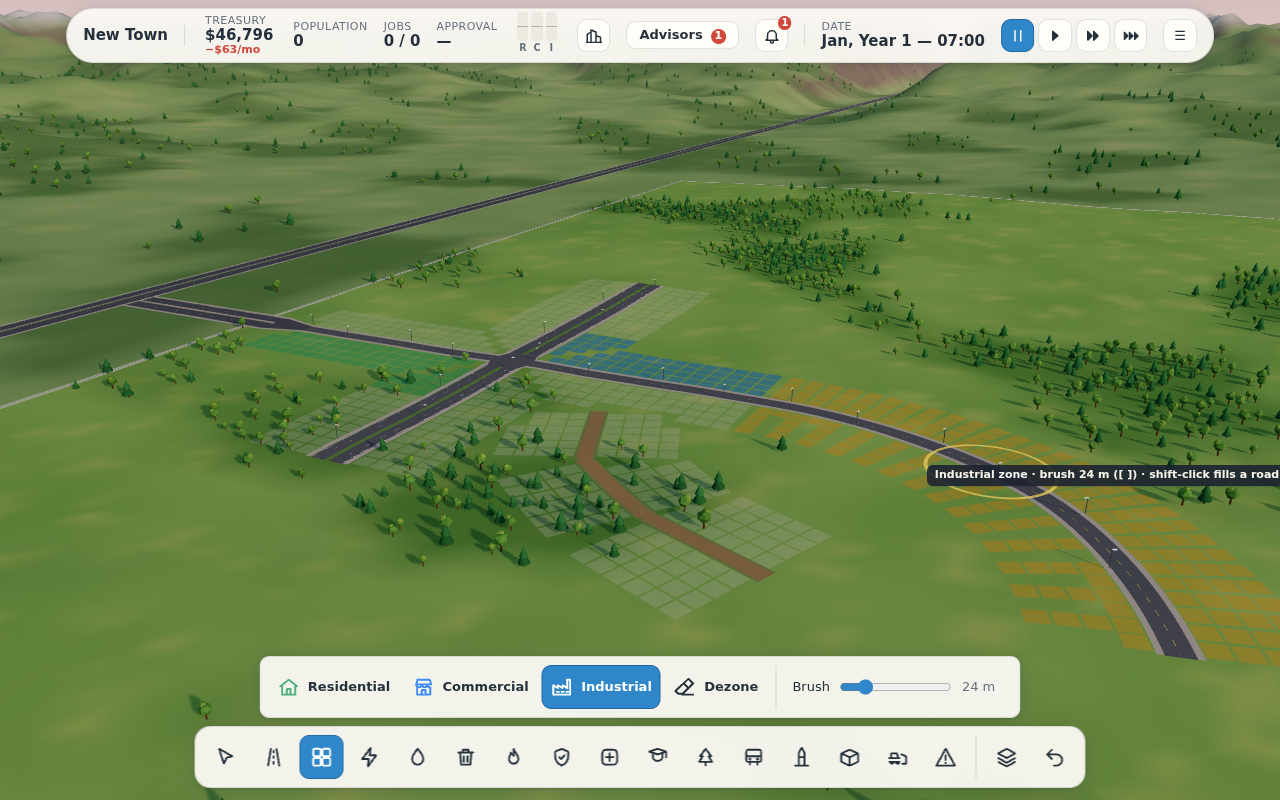
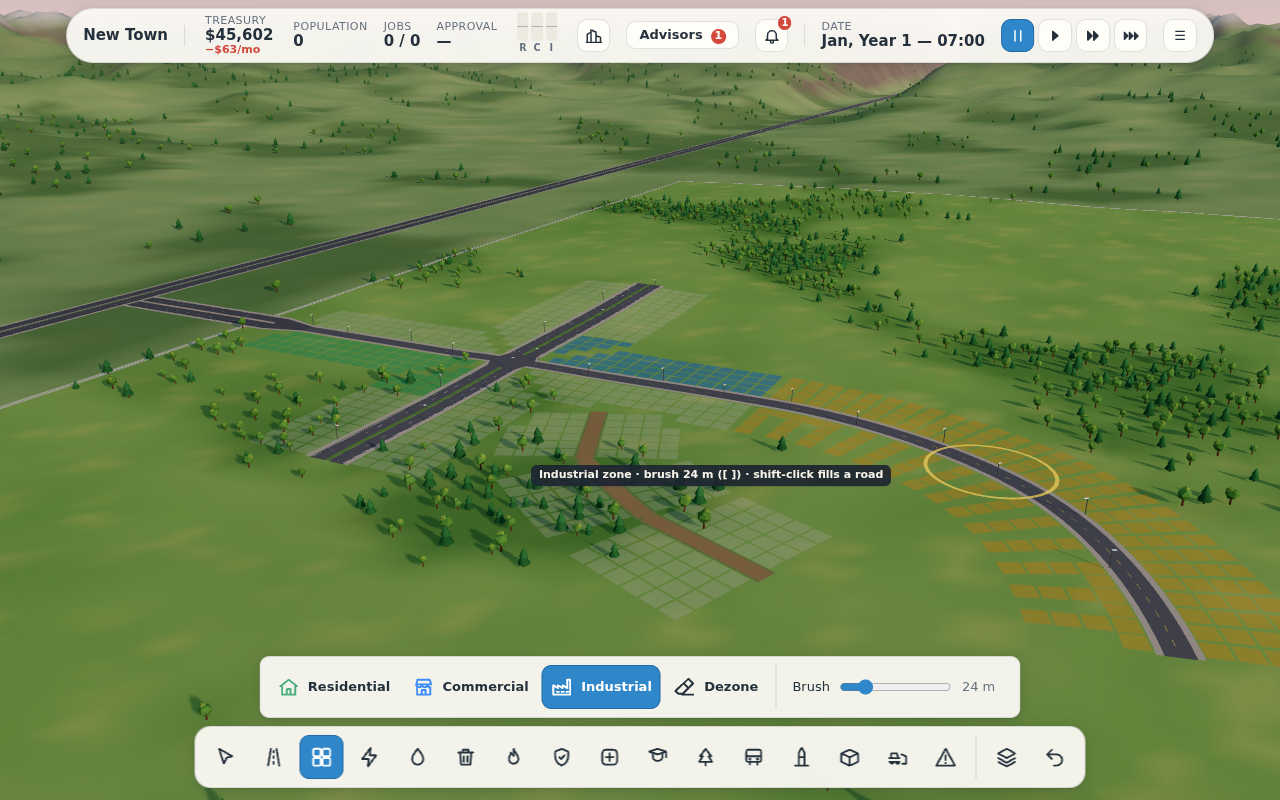
M13: docs (DESIGN §3.15, decisions, README, SPEC_REVIEW phase 2)
Claude-Session: https://claude.ai/code/session_01XW8DbmKrRef35JRd9CiaPb

diff --git a/src/sim/world/grading.ts b/src/sim/world/grading.ts
@@ -6,7 +6,7 @@ import type { Curve } from '../geom';
  * Road grading (M13). A road no longer drapes over every bump: it gets a smoothed vertical profile
  * within its type's grade limit, pinned only where it joins roads that already exist, and the
  * ground is cut or filled to meet it. Pure and deterministic, so previews, the sim and tests agree.
- * DESIGN.md §2.4.
+ * DESIGN.md §3.15.
  */
 export interface GradeProfile {
   /** Sample spacing along the road, metres (the last sample sits at the road's end). */

diff --git a/src/sim/world/earthworks.ts b/src/sim/world/earthworks.ts
@@ -13,7 +13,7 @@ import { profileAt, type GradeProfile } from './grading';
  * profile, and side slopes run from its edge back to the natural ground: an embankment where the
  * road is above it, a cutting where it's below. Other roads, buildings and water are left alone.
  * Edits are to the terrain's height samples and are saved as deltas on the generated terrain.
- * DESIGN.md §2.4.
+ * DESIGN.md §3.15.
  */
 export interface EarthPiece {
   curve: Curve;

diff --git a/src/data/roads.ts b/src/data/roads.ts
@@ -150,7 +150,7 @@ export const SNAP = {
 
 /**
  * Road grading (M13): each road gets a smoothed vertical profile within its type's grade limit, and
- * the ground under it and a little to each side is cut or filled to match. DESIGN.md §2.4.
+ * the ground under it and a little to each side is cut or filled to match. DESIGN.md §3.15.
  */
 export const GRADING = {
   /** Profile sample spacing, metres (the bridge deck spacing too). */

diff --git a/docs/DECISIONS.md b/docs/DECISIONS.md
@@ -189,3 +189,22 @@ One line each: what was decided and why. Newest at the bottom of each section.
 - The inspector shows trucks out of total, collected yesterday against what the city makes a day, what's on the streets, and the last day's rounds (hours, stops, load), with a one-line verdict: keeping up, buy a truck, or (when rounds run over 8 hours) build a site closer. The garbage advice likewise says whether nobody collects yet, every truck is busy, or the streets are out of reach.
 - The balance tool's careful player now puts landfills on the road farthest from where people live, as players do, and buys a truck for a landfill whose trucks are all out before building another. Over 20 years the greedy and neglectful runs are unchanged; the careful city ends at 22,200 residents and 69 % approval instead of 16,000 and 54 %, having no longer drowned in garbage once its landfills filled (79 % of buildings with garbage at year 20 before, 17 % after).
 - SAVE_VERSION 11: vehicles note the tick they set out and their stops; older saves migrate.
+
+## Phase 2 (SPEC-2.md)
+
+### M13 Gentler roads
+- Measured first (`scripts/dev/grades.ts`: 1,800 random straight streets, 60–300 m, on dry land, three seeds of each preset): the old rule (12 % over any 16 m of raw ground) refused 20.7 % of them as too steep, including 90 % of those whose steepest 50 m of ground was only 8–15 %. Now none are refused below 35 %, and 22 % of the 54 placements on 35 %+ ground are (0.7 % overall). A unit test repeats the sample (60 streets per preset) and fails if a too-steep refusal lands on ground under 35 %.
+- Grade limits by type, near real practice for local and arterial roads: dirt 20 %, street 16 %, avenue 12 %, boulevard 8 % (the regional highway, not buildable, 6 %). They're measured on the graded profile, sampled every 4 m, not on the raw ground.
+- The profile is fitted to keep the worst cut or fill as small as possible (fill weighted to 8/14 of cut, the two limits' ratio) and then to hug the smoothed ground wherever it can. An earlier draft clamped the smoothed ground with forward and backward sweeps; it piled all the error on the far end of a free road, so streets running downhill ended on tall embankments and were refused.
+- A cutting deeper than 14 m is the only "too steep" on land (no tunnels). Fill taller than 8 m goes on a viaduct over dry ground, drawn and priced like a bridge, but not at a road's end, not for dirt roads, and no longer than a bridge may be. Roads can't join a viaduct mid-span yet (M19 brings grade separation); the planner says to meet it where it's back on the ground.
+- The flat formation reaches 8 m beyond the shoulder (a bench). The terrain is 8 m height samples and the road is draped on them, so a narrower formation left the road tilted across wherever side slopes started inside the cells under it. The bench also gives the first row of lots a level site at road level.
+- Side slopes are 1:1 in cuttings and 1:3 on embankments. The first draft used 1:2 for both, and a cutting on a hillside steeper than 50 % never met the ground again. 1:3 fills keep lots across an embankment buildable (the cell slope check measures across the diagonal); 1:1 cuts are narrow, like real ones.
+- Earthworks cost $0.40 per cubic metre moved. On the sample, that adds a median 16 % to a street on gentle ground (cross-slopes are benched) and 85 % where the ground is 15 % or steeper: a trade-off, not a wall. Bulldozing refunds a quarter of the road but not its earthworks; undo refunds everything.
+- Civic buildings on uneven ground (more than 1 m across the footprint) get a level pad at the height where they meet their road, at the same price per cubic metre; a site is too steep beyond 12 m (was 7 m, for plinths alone). Found by the garbage test: a landfill beside a new cutting was refused as too steep.
+- Ground under buildings that stay is never moved; beside them the earthworks stop short, like a retaining wall. Everything else re-seats on the moved ground by the existing rule (highest ground under the corners and centre; plinths hide the rest), and zone cells on new cut faces lose their zoning like any too-steep cell.
+- Trees go where the ground moved more than half a metre (the construction site), not just under the road.
+- Terrain edits are saved as a full 257² Float32 delta rather than a sparse list: simplest to keep exact, gzip shrinks the zeros, and M24's terraforming reuses it. Heights are always computed as seed + delta, live and on load, so save/load and undo reproduce the ground bit for bit (an early version stored the target heights and drifted by a float ulp). SAVE_VERSION 12; older saves migrate to an all-zero delta and keep their ground.
+- Upgrading a road regrades it for the new type between its two junctions (widening the formation too), or refuses with the reason; bridges and viaducts keep their decks and just check their climb.
+- The road preview draws the ghost at the height the road will be built, seen through hills, coloured by how steeply it climbs against the limit (blue, amber near it, red where too steep, violet on a viaduct), with posts down or up to today's ground where it's filled or cut. The hint adds "climbs 12 % (max 16 %) · earthworks $X" and, when refused, how steep the ground is, the limit, how deep the cutting would be and what would fix it. Roads have no inspector, so the preview is where the "why" lives; road tooltips give each type's limit and a one-time tip explains earthworks the first time a preview needs a lot of them.
+- The cursor hint used to run off the right edge of the screen (the too-steep explanations are long); it now wraps and moves to the other side of the cursor near an edge.
+- Tests adjusted for earthworks, not weakened: road and upgrade prices are checked as the road plus the reported earthworks; the bankruptcy test sizes its avenues by preview; the landmark test tops up the treasury before placing two landmarks (roads now cost more); the far-landfill garbage test takes the cheapest road out of town (hilly routes that used to be refused are now buildable, at a price) and puts the landfill 1,100 m out, where the starting trucks clearly fall behind.

diff --git a/DESIGN.md b/DESIGN.md
@@ -139,6 +139,7 @@ SimState {
   rng: {growth, events, traffic, world, disasters}          // sfc32 states
   terrain: { heights: Float32Array(257²) }                  // regenerated from seed + options.terrain
                                                             // (generator version), not saved
+  terrainDelta: Float32Array(257²)                          // earthworks (M13): heights = seed + delta
   grids:   { trees, groundwater, ore, oil,                  // Uint8/Float32, 128²
              airPollution, groundPollution, landValue, crime, garbageField, ... }
   roads:   { nodes: Map<id, RoadNode>, segments: Map<id, RoadSegment>, nextId }
@@ -160,7 +161,8 @@ Key entities:
 
 ```ts
 RoadNode    { id, x, z, y, segs: number[] }                 // segs is derived, rebuilt on load
-RoadSegment { id, a, b, cx, cz, type: RoadTypeId, length, blocks: [left, right], name }
+RoadSegment { id, a, b, cx, cz, type: RoadTypeId, length, blocks: [left, right], name,
+              deck?: number[] }                             // viaduct over dry ground: heights / 4 m (M13)
 ZoneBlock   { id, seg, side: 1 | -1, s0, cols, rows,        // cell (c, r) centre = P(s0 + (c+½)·8) +
               zone: Uint8Array, valid: Uint8Array,          //   N·(halfWidth + (r+½)·8), angle = tangent
               bld: Int32Array }                             // building id or 0
@@ -559,6 +561,47 @@ disasters menu can set any one off at a chosen point whatever that setting.
             │   crime ◄── unemployment, low happiness ──────────────────┘            │
             └── decline / abandonment ◄── unhappiness, unmet needs ◄─────────────────┘
 ```
+
+### 3.15 Road grading and earthworks (M13)
+
+Roads no longer drape over the raw ground. `world/grading.ts` gives each dry-land piece a vertical
+profile sampled every 4 m:
+
+1. The ground along the centre line is averaged over 40 m (the window narrows symmetrically at the
+   ends), so short bumps are shaved off rather than followed.
+2. Ends that join an existing road (or an earlier piece of the same road) are pinned to its height;
+   a new dead end is free. If two pinned ends are further apart in height than the type can climb
+   over the length, the piece fails ("make it longer, or wind it up the slope").
+3. The profile is the one within the type's grade limit (`RoadType.maxGrade`: dirt 20 %, street
+   16 %, avenue 12 %, boulevard 8 %) that strays least from the smoothed ground: a bisection on the
+   worst cut, with fill held to 8/14 of it, finds the smallest tolerance for which a forward pass of
+   reachable heights (grade-limited, inside the pins' band) stays non-empty; a backward pass then
+   picks the height closest to the ground at each sample. If that needs a cutting deeper than
+   14 m, a second fit lets fill run tall instead (a viaduct beats an impossible cutting).
+4. Samples more than 8 m above the ground are carried on a viaduct (stored on the segment as
+   `deck`, drawn and costed like a bridge; not at a road's end, not for dirt roads, at most
+   `BRIDGE.maxSpan`). A cutting deeper than 14 m fails with the ground's steepness, the limit and
+   the fix. Pieces over water keep the M6 bridge rules.
+
+`world/earthworks.ts` turns profiles into terrain edits. Each height sample within reach of the
+road is claimed by the nearest piece: out to the road's half-width plus a 1.5 m shoulder plus an
+8 m bench (the first row of lots, and enough that the road, draped on 8 m samples, comes out flat
+across) it is set to the profile; beyond, side slopes run back to the natural ground, 1:1 in
+cuttings and 1:3 on embankments (gentle enough that lots on them stay buildable). Water, other
+roads' corridors (road + shoulder), ground beyond an end that joins another road, samples under a
+viaduct, and ground under buildings that stay are left alone. Earth moved costs $0.40 per cubic
+metre, part of the road's price (not refunded by bulldozing). Civic buildings whose footprint
+varies by more than 1 m get a level pad at the height where they meet their road (4 m margin,
+same side slopes, same price); beyond 12 m the site is too steep.
+
+Edits are written as `terrainDelta` (height = seed terrain + delta, computed the same way live and
+on load, so saves and undo are exact) and sent to the client as `FrameDiff.terrain`. After any edit
+the sim re-seats buildings and civic buildings (highest ground under their corners and centre),
+clears trees on ground that moved more than half a metre, forgets bridge decks and the water
+distance / land-setting cache, and rechecks zone cells there (a lot on a steep cut face loses its
+zoning). The client rebuilds the terrain chunks (tinting cut faces earth-brown, embankments fresh
+green), roads, zone cells and trees in the box. Undo records keep the deltas they replaced. Road
+upgrades regrade to the new type between the road's two junctions, or say why they can't.
 
 ---
 

diff --git a/docs/SPEC_REVIEW.md b/docs/SPEC_REVIEW.md
@@ -82,3 +82,35 @@ screenshots are in `docs/screenshots/`. Anything not done is explained at the en
   traffic model.
 - **Render triangle budget**: 2.5M at the whole-city overview of a 100k city (half of it the shadow
   pass) against an early 1.5M target; draw calls are within budget. Flagged for the Mac check.
+
+---
+
+# SPEC-2.md (phase 2, M13–M24)
+
+Each phase-2 milestone mapped to where it's done. Filled in as milestones complete.
+
+## Rules for all of phase 2
+
+| Rule | Where |
+|---|---|
+| Work in order, each milestone playable, UI-tested with screenshots, `M<n> complete:` commits | git history; `e2e/m13-*.spec.ts` onwards; `docs/screenshots/m13-*.png` onwards |
+| New saved state bumps the save version with a migration and a test that older saves load and play on | M13: SAVE_VERSION 12 (`terrainDelta`), `tests/grading.test.ts` loads the version-10 playtest save |
+| M12 performance budget kept; bench and balance rerun per milestone | numbers per milestone in PROGRESS.md |
+| Everything original | procedural models, icons and sounds, as in phase 1 |
+| Player kept informed (tooltips, shortcuts, tips, advisor hints, maps and inspector lines) | per milestone below |
+| README and this section kept current; real-hardware checks under "To check on the Mac" | README.md, PROGRESS.md |
+
+## M13 Gentler roads
+
+| Item | Where |
+|---|---|
+| Smoothed vertical profile per road; grade measured on it | `src/sim/world/grading.ts` (40 m smoothing, fit within the limit, pinned at junctions); DESIGN.md §3.15 |
+| Cut and fill under the road and to each side, visible embankments and cuttings | `src/sim/world/earthworks.ts` (formation + bench, 1:1 cuttings, 1:3 embankments); terrain tint in `src/render/terrain.ts`; `docs/screenshots/m13-cutting.png` |
+| Per-type grade limits; only extreme ground fails | `RoadType.maxGrade` in `src/data/roads.ts` (streets 16 %, boulevards 8 %); a cutting deeper than 14 m is the only land failure |
+| Bridge over dry ground where fill is very tall | viaducts (`RoadSegment.deck`) where fill passes 8 m |
+| Earthworks cost ∝ volume | $0.40/m³ in the road's price (`GRADING.costPerCubicMetre`); civic pads likewise |
+| Preview shows grade along the ghost, colours too-steep sections, says by how much and what fixes it | `src/render/ghost.ts` (graded ghost, colours, cut/fill posts), `src/tools/roadTool.ts` (hint), reasons in `grading.ts`; `docs/screenshots/m13-preview.png`, `m13-too-steep.png` |
+| Terrain edits saved as deltas on the seed | `SimState.terrainDelta`, save v12, `FrameDiff.terrain` |
+| Nearby zone cells, buildings and trees adapt; nothing floats or sinks | `Sim.groundMoved` (re-seat), cells revalidated, trees cleared on moved ground; level pads for civic buildings; tested in `tests/grading.test.ts` |
+| Existing saves load unchanged | migration 11 → 12 (zero delta); test loads the v10 playtest save and checks the ground is the seed's |
+| Done when: sampled random streets across all presets refused only on extreme ground (before/after), screenshots of clean earthworks with buildings beside them | before 20.7 % refused (90 % on 8–15 % ground), after 0.7 %, only on ≥ 35 % ground (`scripts/dev/grades.ts`, `tests/grading.test.ts`); `scripts/dev/earthshot.mjs` town on a ridge |

diff --git a/CLAUDE.md b/CLAUDE.md
@@ -40,6 +40,7 @@ _Maintained by Claude. Keep this brief: how to run, test and build; the folder l
 - **Benchmark (M12):** `npx tsx scripts/bench.ts [months] --big [--profile] [--save city.gz]` grows a ~100k sandbox city on a 16×16 avenue grid (lakes, seed `big`) and prints tick avg/p99/max per month; `--profile` adds the worst and total time per system. `node scripts/dev/bigshot.mjs city.gz <out> [hour]` imports it through the load screen and prints draw calls/triangles per camera pose with a per-group breakdown (test API `renderBreakdown()`). `npx tsx scripts/dev/sysprobe.ts city.gz` times the heavy systems on a saved city and prints a land-value checksum (optimisations must not change it). The sim takes an optional `sim.timer` hook around each system; it never reads a clock itself.
 - **Balance tool (M12):** `npx tsx scripts/balance.ts [years] [careful,greedy,neglectful] [--difficulty easy|normal|hard] [--scale tax=1.5,upkeep=0.8] [--csv dir] [--verbose N]` (~1 min per 20-year careful run). Env `MOOD=1` (mood factors per zone at the end), `ADVICE=1`, `DEMAND=1` (vacancy and demand factors), `GARB=1` (garbage facilities). `--save dir` keeps each city as a `.citybloom` save.
 - **Garbage probe (playtest fixes):** `npx tsx scripts/dev/garbage.ts <save> [days] [--move-landfill x,z]` or `--town [days] [--late N]` prints garbage made vs collected per day, the backlog and piles, trucks out vs parked, and each truck round split into driving out, collecting and driving back (with the traffic delay and load). The playtest city is `Saves/Ashton.citybloom` (tests/garbage.test.ts loads it).
+- **Grading (M13):** `npx tsx scripts/dev/grades.ts [per map] [seeds] [--build]` samples random streets on every preset and prints refusals by ground steepness (and earthworks per road with `--build`); `npx tsx scripts/dev/hills.ts [seed] [preset] [reach]` (env `BAND=0.2-0.4`, `HUMP=1`) finds hilly streets near the highway; `node scripts/dev/earthshot.mjs <out> [ticks]` grows a town over the ridge on seed `hill` (highlands) and screenshots its cuttings. Test API `getTerrainEdits()` and `ghostGrade()`.
 - **Menu demo town:** `public/demo.citybloom`. Regenerate after sim changes that alter growth with `npx tsx scripts/balance.ts 6 careful --seed citybloom --demo --save /tmp/d && cp /tmp/d/careful.citybloom public/demo.citybloom`, then check it with `node scripts/dev/menushot.mjs dist-test <outPrefix>` (after `npm run build:test`); `tests/shell.test.ts` keeps it loadable.
 - **Final playthrough:** `npm run playthrough` (≈9 min): a first city through the real UI from the main menu, writing `docs/screenshots/m12-play-*.png` and `[playthrough]` log lines.
 - **Shell (M11):** `src/ui/Shell.tsx` (main/new/pause/save/load/settings screens; `Game.mode` and `Game.screens`), `src/ui/Guide.tsx` + `src/client/tutorial.ts` (tutorial steps and tips), `src/client/settings.ts` (validated localStorage record), `src/client/saves.ts` (IndexedDB slots: `auto`, `quick`, `s…`). Test API `getShell()` reports mode, screens, settings and what the renderer applied.

diff --git a/README.md b/README.md
@@ -33,7 +33,11 @@ pick a map (river, coast, lakes or highlands), a seed, a difficulty, and whether
 money or random disasters. The tutorial is on for your first city and walks through the basics:
 
 1. **Roads** off the highway: drag to draw a straight road, or click point to point to keep going;
-   the curve tool takes a start, a bend and an end, and the free tool follows the mouse.
+   the curve tool takes a start, a bend and an end, and the free tool follows the mouse. Over hills
+   the ground is cut and filled so a road climbs no steeper than its type allows (streets 16 %,
+   avenues 12 %, boulevards 8 %), with a viaduct across deep dips: the ghost shows the road at its
+   built height, turning amber near the limit and red where it's too steep, and the hint gives the
+   climb, the earthworks' cost, or what would fix it.
 2. **Zones** beside them: residential, commercial and industrial. Buildings grow on their own when
    there's demand (the R, C and I bars in the top bar tell you what the city wants, and why).
 3. **Power, water and sewage** from the Utilities menu. Homes without them empty out.
